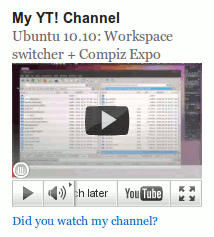
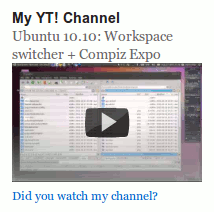
applied patch 1296 from trunk by dimadin, plus localized to Serbian
git-svn-id: https://plugins.svn.wordpress.org/youtube-channel/trunk@370785 b8457f37-d9ea-0310-8a92-e5e31aec5664

diff --git a/youtube-channel.php b/youtube-channel.php
@@ -4,15 +4,23 @@ Plugin Name: YouTube Channel
 Plugin URI: http://blog.urosevic.net/wordpress/youtube-channel/
 Description: <a href="widgets.php">Widget</a> that display latest video thumbnail, iframe (HTML5 video), object (Flash video) or chromeless video from YouTube Channel.
 Author: Aleksandar Urošević
-Version: 0.1.2
+Version: 0.1.3
 Author URI: http://urosevic.net/
 */
+
+define( 'YOUTUBE_CHANNEL_URL', plugin_dir_url(__FILE__) );
+
+/* Load plugin's textdomain */
+function youtube_channel_init() {
+	load_plugin_textdomain( 'youtube-channel', false, dirname( plugin_basename( __FILE__ ) ) . '/languages' );
+}
+add_action( 'init', 'youtube_channel_init' );
 
 /* youtube widget */
 class YouTube_Channel_Widget extends WP_Widget {
 	function YouTube_Channel_Widget() {
 		// widget actual processes
-		parent::WP_Widget(false, $name = 'YouTube Channel');
+		parent::WP_Widget( false, $name = __( 'YouTube Channel' , 'youtube-channel' ) );
 	}
 
 	function form($instance) {
@@ -22,6 +30,8 @@ class YouTube_Channel_Widget extends WP_Widget {
 		$getrnd     = esc_attr($instance['getrnd']);
 		$goto_txt   = esc_attr($instance['goto_txt']);
 		$showgoto   = esc_attr($instance['showgoto']);
+		$popupgoto  = esc_attr($instance['popupgoto']);
+		$target     = esc_attr($instance['target']);
 		$showtitle  = esc_attr($instance['showtitle']);
 		$width      = esc_attr($instance['width']);
 		$height     = esc_attr($instance['height']);
@@ -32,34 +42,36 @@ class YouTube_Channel_Widget extends WP_Widget {
 		$fixyt      = esc_attr($instance['fixyt']);
 		$hideinfo   = esc_attr($instance['hideinfo']);
 		?>
-		<p><label for="<?php echo $this->get_field_id('title'); ?>"><?php _e('Widget Title:'); ?><input class="widefat" id="<?php echo $this->get_field_id('title'); ?>" name="<?php echo $this->get_field_name('title'); ?>" type="text" value="<?php echo $title; ?>" /></label></p>
-		<p><label for="<?php echo $this->get_field_id('channel'); ?>"><?php _e('Channel:'); ?> <input class="widefat" id="<?php echo $this->get_field_id('channel'); ?>" name="<?php echo $this->get_field_name('channel'); ?>" type="text" value="<?php echo $channel; ?>" /></label><br />
-		<input class="checkbox" type="checkbox" <?php checked( (bool) $instance['getrnd'], true ); ?> id="<?php echo $this->get_field_id( 'getrnd' ); ?>" name="<?php echo $this->get_field_name( 'getrnd' ); ?>" /> <label for="<?php echo $this->get_field_id( 'getrnd' ); ?>"><?php _e('Get random video from channel'); ?></label></p>
-		<p><label for="<?php echo $this->get_field_id('width'); ?>"><?php _e('Width'); ?> (<?php _e('default'); ?> 220):<input class="widefat" id="<?php echo $this->get_field_id('width'); ?>" name="<?php echo $this->get_field_name('width'); ?>" type="text" value="<?php echo $width; ?>" /></label></p>
-		<p><label for="<?php echo $this->get_field_id('height'); ?>"><?php _e('Height'); ?> (<?php _e('default'); ?> 165):<input class="widefat" id="<?php echo $this->get_field_id('height'); ?>" name="<?php echo $this->get_field_name('height'); ?>" type="text" value="<?php echo $height; ?>" /></label></p>
-		<p><label for="<?php echo $this->get_field_id('to_show'); ?>"><?php _e('Aspect ratio (relative to width):'); ?>
+		<p><label for="<?php echo $this->get_field_id('title'); ?>"><?php _e('Widget Title:', 'youtube-channel'); ?><input class="widefat" id="<?php echo $this->get_field_id('title'); ?>" name="<?php echo $this->get_field_name('title'); ?>" type="text" value="<?php echo $title; ?>" /></label></p>
+		<p><label for="<?php echo $this->get_field_id('channel'); ?>"><?php _e('Channel:', 'youtube-channel'); ?> <input class="widefat" id="<?php echo $this->get_field_id('channel'); ?>" name="<?php echo $this->get_field_name('channel'); ?>" type="text" value="<?php echo $channel; ?>" /></label><br />
+		<input class="checkbox" type="checkbox" <?php checked( (bool) $instance['getrnd'], true ); ?> id="<?php echo $this->get_field_id( 'getrnd' ); ?>" name="<?php echo $this->get_field_name( 'getrnd' ); ?>" /> <label for="<?php echo $this->get_field_id( 'getrnd' ); ?>"><?php _e('Get random video from channel', 'youtube-channel'); ?></label></p>
+		<p><label for="<?php echo $this->get_field_id('width'); ?>"><?php _e('Width', 'youtube-channel'); ?> (<?php _e('default', 'youtube-channel'); ?> 220):<input class="widefat" id="<?php echo $this->get_field_id('width'); ?>" name="<?php echo $this->get_field_name('width'); ?>" type="text" value="<?php echo $width; ?>" /></label></p>
+		<p><label for="<?php echo $this->get_field_id('height'); ?>"><?php _e('Height', 'youtube-channel'); ?> (<?php _e('default', 'youtube-channel'); ?> 165):<input class="widefat" id="<?php echo $this->get_field_id('height'); ?>" name="<?php echo $this->get_field_name('height'); ?>" type="text" value="<?php echo $height; ?>" /></label></p>
+		<p><label for="<?php echo $this->get_field_id('to_show'); ?>"><?php _e('Aspect ratio (relative to width):', 'youtube-channel'); ?>
 			<select class="widefat" id="<?php echo $this->get_field_id( 'ratio' ); ?>" name="<?php echo $this->get_field_name( 'ratio' ); ?>">
-				<option value="0"<?php if ($instance['ratio'] == "0") { echo 'selected="selected"'; } ?>><?php _e('Custom'); ?></option>
-				<option value="1"<?php if ($instance['ratio'] == "1") { echo 'selected="selected"'; } ?>>4:3</option>
-				<option value="2"<?php if ($instance['ratio'] == "2") { echo 'selected="selected"'; } ?>>16:10</option>
-				<option value="3"<?php if ($instance['ratio'] == "3") { echo 'selected="selected"'; } ?>>16:9</option>
+				<option value="0"<?php selected( $instance['ratio'], 0 ); ?>><?php _e('custom', 'youtube-channel'); ?></option>
+				<option value="1"<?php selected( $instance['ratio'], 1 ); ?>>4:3</option>
+				<option value="2"<?php selected( $instance['ratio'], 2 ); ?>>16:10</option>
+				<option value="3"<?php selected( $instance['ratio'], 3 ); ?>>16:9</option>
 			</select>
 		</p>
-		<p><label for="<?php echo $this->get_field_id('to_show'); ?>"><?php _e('What to show?'); ?>
+		<p><label for="<?php echo $this->get_field_id('to_show'); ?>"><?php _e('What to show?', 'youtube-channel'); ?>
 			<select class="widefat" id="<?php echo $this->get_field_id( 'to_show' ); ?>" name="<?php echo $this->get_field_name( 'to_show' ); ?>">
-				<option value="thumbnail"<?php if ($instance['to_show']  == "thumbnail") { echo 'selected="selected"'; } ?>><?php _e('Thumbnail'); ?></option>
-				<option value="object"<?php if ($instance['to_show']     == "object") { echo 'selected="selected"'; } ?>><?php _e('object (flash player)'); ?></option>
-				<option value="iframe"<?php if ($instance['to_show']     == "iframe") { echo 'selected="selected"'; } ?>><?php _e('iframe (HTML5 player)'); ?></option>
-				<option value="chromeless"<?php if ($instance['to_show'] == "chromeless") { echo 'selected="selected"'; } ?>><?php _e('chromeless video'); ?></option>
+				<option value="thumbnail"<?php selected( $instance['to_show'], 'thumbnail' ); ?>><?php _e('thumbnail', 'youtube-channel'); ?></option>
+				<option value="object"<?php selected( $instance['to_show'], 'object' ); ?>><?php _e('object (flash player)', 'youtube-channel'); ?></option>
+				<option value="iframe"<?php selected( $instance['to_show'], 'iframe' ); ?>><?php _e('iframe (HTML5 player)', 'youtube-channel'); ?></option>
+				<option value="chromeless"<?php selected( $instance['to_show'], 'chromeless' ); ?>><?php _e('chromeless video', 'youtube-channel'); ?></option>
 			</select>
-			<input class="checkbox" type="checkbox" <?php checked( (bool) $instance['fixyt'], true ); ?> id="<?php echo $this->get_field_id( 'fixyt' ); ?>" name="<?php echo $this->get_field_name( 'fixyt' ); ?>" /> <label for="<?php echo $this->get_field_id( 'fixyt' ); ?>"><?php _e('Fix height taken by controls'); ?></label><br />
-			<input class="checkbox" type="checkbox" <?php checked( (bool) $instance['autoplay'], true ); ?> id="<?php echo $this->get_field_id( 'autoplay' ); ?>" name="<?php echo $this->get_field_name( 'autoplay' ); ?>" /> <label for="<?php echo $this->get_field_id( 'autoplay' ); ?>"><?php _e('Autoplay video'); ?></label><br />
-			<input class="checkbox" type="checkbox" <?php checked( (bool) $instance['controls'], true ); ?> id="<?php echo $this->get_field_id( 'controls' ); ?>" name="<?php echo $this->get_field_name( 'controls' ); ?>" /> <label for="<?php echo $this->get_field_id( 'controls' ); ?>"><?php _e('Hide player controls'); ?></label><br />
-			<input class="checkbox" type="checkbox" <?php checked( (bool) $instance['hideinfo'], true ); ?> id="<?php echo $this->get_field_id( 'hideinfo' ); ?>" name="<?php echo $this->get_field_name( 'hideinfo' ); ?>" /> <label for="<?php echo $this->get_field_id( 'hideinfo' ); ?>"><?php _e('Hide video info'); ?></label><br />
-			<input class="checkbox" type="checkbox" <?php checked( (bool) $instance['showtitle'], true ); ?> id="<?php echo $this->get_field_id( 'showtitle' ); ?>" name="<?php echo $this->get_field_name( 'showtitle' ); ?>" /> <label for="<?php echo $this->get_field_id( 'showtitle' ); ?>"><?php _e('Show video title'); ?></label>
+			<input class="checkbox" type="checkbox" <?php checked( (bool) $instance['fixyt'], true ); ?> id="<?php echo $this->get_field_id( 'fixyt' ); ?>" name="<?php echo $this->get_field_name( 'fixyt' ); ?>" /> <label for="<?php echo $this->get_field_id( 'fixyt' ); ?>"><?php _e('Fix height taken by controls', 'youtube-channel'); ?></label><br />
+			<input class="checkbox" type="checkbox" <?php checked( (bool) $instance['autoplay'], true ); ?> id="<?php echo $this->get_field_id( 'autoplay' ); ?>" name="<?php echo $this->get_field_name( 'autoplay' ); ?>" /> <label for="<?php echo $this->get_field_id( 'autoplay' ); ?>"><?php _e('Autoplay video', 'youtube-channel'); ?></label><br />
+			<input class="checkbox" type="checkbox" <?php checked( (bool) $instance['controls'], true ); ?> id="<?php echo $this->get_field_id( 'controls' ); ?>" name="<?php echo $this->get_field_name( 'controls' ); ?>" /> <label for="<?php echo $this->get_field_id( 'controls' ); ?>"><?php _e('Hide player controls', 'youtube-channel'); ?></label><br />
+			<input class="checkbox" type="checkbox" <?php checked( (bool) $instance['hideinfo'], true ); ?> id="<?php echo $this->get_field_id( 'hideinfo' ); ?>" name="<?php echo $this->get_field_name( 'hideinfo' ); ?>" /> <label for="<?php echo $this->get_field_id( 'hideinfo' ); ?>"><?php _e('Hide video info', 'youtube-channel'); ?></label><br />
+			<input class="checkbox" type="checkbox" <?php checked( (bool) $instance['showtitle'], true ); ?> id="<?php echo $this->get_field_id( 'showtitle' ); ?>" name="<?php echo $this->get_field_name( 'showtitle' ); ?>" /> <label for="<?php echo $this->get_field_id( 'showtitle' ); ?>"><?php _e('Show video title', 'youtube-channel'); ?></label>
 		</p>
-		<p><label for="<?php echo $this->get_field_id('goto_txt'); ?>"><?php _e('Visit YouTube Channel text:'); ?> <input class="widefat" id="<?php echo $this->get_field_id('goto_txt'); ?>" name="<?php echo $this->get_field_name('goto_txt'); ?>" type="text" value="<?php echo $goto_txt; ?>" /></label>
-		<input class="checkbox" type="checkbox" <?php checked( (bool) $instance['showgoto'], true ); ?> id="<?php echo $this->get_field_id( 'showgoto' ); ?>" name="<?php echo $this->get_field_name( 'showgoto' ); ?>" /> <label for="<?php echo $this->get_field_id( 'showgoto' ); ?>"><?php _e('Show link to channel'); ?></label></p>
+		<p><label for="<?php echo $this->get_field_id('goto_txt'); ?>"><?php _e('Visit YouTube Channel text:', 'youtube-channel'); ?> <input class="widefat" id="<?php echo $this->get_field_id('goto_txt'); ?>" name="<?php echo $this->get_field_name('goto_txt'); ?>" type="text" value="<?php echo $goto_txt; ?>" /></label>
+		<input class="checkbox" type="checkbox" <?php checked( (bool) $instance['showgoto'], true ); ?> id="<?php echo $this->get_field_id( 'showgoto' ); ?>" name="<?php echo $this->get_field_name( 'showgoto' ); ?>" /> <label for="<?php echo $this->get_field_id( 'showgoto' ); ?>"><?php _e('Show link to channel', 'youtube-channel'); ?></label><br />
+		<input class="checkbox" type="checkbox" <?php checked( (bool) $instance['popupgoto'], true ); ?> id="<?php echo $this->get_field_id( 'popupgoto' ); ?>" name="<?php echo $this->get_field_name( 'popupgoto' ); ?>" /> <label for="<?php echo $this->get_field_id( 'popupgoto' ); ?>"><?php _e('Open channel in new window/tab', 'youtube-channel'); ?></label><br />
+		<input class="checkbox" type="checkbox" <?php checked( (bool) $instance['target'], true ); ?> id="<?php echo $this->get_field_id( 'target' ); ?>" name="<?php echo $this->get_field_name( 'target' ); ?>" /> <label for="<?php echo $this->get_field_id( 'target' ); ?>"><?php _e('Use target="_blank" (invalid XHTML)', 'youtube-channel'); ?></label></p>
 		<?php
 	}
 
@@ -71,6 +83,8 @@ class YouTube_Channel_Widget extends WP_Widget {
 		$instance['getrnd']    = $new_instance['getrnd'];
 		$instance['goto_txt']  = strip_tags($new_instance['goto_txt']);
 		$instance['showgoto']  = $new_instance['showgoto'];
+		$instance['popupgoto'] = $new_instance['popupgoto'];
+		$instance['target']    = $new_instance['target'];
 		$instance['showtitle'] = $new_instance['showtitle'];
 		$instance['width']     = strip_tags($new_instance['width']);
 		$instance['height']    = strip_tags($new_instance['height']);
@@ -140,9 +154,9 @@ class YouTube_Channel_Widget extends WP_Widget {
 			$items = array_slice($rss->items, 0, 1);
 		}
 	}
-	
+
 	if (empty($items)) {
-		echo "No items";
+		echo __( 'No items' , 'youtube-channel' );
 	} else {
 		if ( $getrnd ) {
 			$item = $items[mt_rand(0, (count($items)-1))];
@@ -166,17 +180,18 @@ class YouTube_Channel_Widget extends WP_Widget {
 		
 		// print out video
 		if ( $to_show == "thumbnail" ) {
+		$title = sprintf( __( 'Watch video %1$s published on %2$s' , 'youtube-channel' ), $yt_title, $yt_date );
 echo <<<EOF
-		<a href="$yt_video" title="Watch video $yt_title published on $yt_date"><img src="$yt_thumb" alt="$yt_title" style="width: ${width}px; height: ${height}px; border: 0;" /></a>
+		<a href="$yt_video" title="$title"><img src="$yt_thumb" alt="$yt_title" style="width: ${width}px; height: ${height}px; border: 0;" /></a>
 EOF;
 		} else if ( $to_show == "chromeless" ) {
 ?>
-	<object type="application/x-shockwave-flash" data="<?php echo get_bloginfo('wpurl'); ?>/wp-content/plugins/youtube-channel/chromeless.swf" width="<?php echo $width; ?>" height="<?php echo $height; ?>">
+	<object type="application/x-shockwave-flash" data="<?php echo YOUTUBE_CHANNEL_URL . 'chromeless.swf'; ?>" width="<?php echo $width; ?>" height="<?php echo $height; ?>">
 		<param name="flashVars" value="video_source=<?php echo $yt_id; ?>&video_width=<?php echo $width; ?>&video_height=<?php echo $height; ?><?php if ( $autoplay ) { echo "&autoplay=Yes"; } if ( !$controls ) { echo "&youtube_controls=Yes"; } ?>" />
 		<param name="quality" value="high" />
 		<param name="wmode" value="opaque" />
 		<param name="swfversion" value="6.0.65.0" />
-		<param name="movie" value="<?php echo get_bloginfo('wpurl'); ?>/wp-content/plugins/youtube-channel/chromeless.swf" />
+		<param name="movie" value="<?php echo YOUTUBE_CHANNEL_URL . 'chromeless.swf'; ?>" />
 	</object>	
 <?php
 		} else if ( $to_show == "iframe" ) {
@@ -200,10 +215,25 @@ EOF;
 		// do we need to show goto link?
 		if ( $instance['showgoto'] ) {
 			$goto_txt = $instance['goto_txt'];
-			if ( $goto_txt == "" ) { $goto_txt = __("Visit channel")." $channel"; }
+			if ( $goto_txt == "" ) {
+				$goto_txt = sprintf( __( 'Visit channel %1$s' , 'youtube-channel' ), $channel );
+			}
+			if ( $instance['popupgoto'] ) {
+				$newtab = __("in new window/tab", "youtube-channel");
+				if ( $instance['target'] ) {
 echo <<<EOF
-	<p><a href="javascript: window.open('http://www.youtube.com/user/$channel/'); void 0;" title="$goto_txt">$goto_txt</a></p>
+	<p><a href="http://www.youtube.com/user/$channel/" target="_blank" title="$goto_txt $newtab">$goto_txt</a></p>
 EOF;
+				} else {
+echo <<<EOF
+	<p><a href="javascript: window.open('http://www.youtube.com/user/$channel/'); void 0;" title="$goto_txt $newtab">$goto_txt</a></p>
+EOF;
+				} // target
+			} else {
+echo <<<EOF
+	<p><a href="http://www.youtube.com/user/$channel/" title="$goto_txt">$goto_txt</a></p>
+EOF;
+			} // popupgoto
 		} // showgoto
 	}
 	?>
@@ -213,5 +243,10 @@ EOF;
 	}
 
 }
-add_action('widgets_init', create_function('', 'return register_widget("YouTube_Channel_Widget");'));
+
+/* Register plugin's widget */
+function youtube_channel_register_widget() {
+	register_widget( 'YouTube_Channel_Widget' );
+}
+add_action( 'widgets_init', 'youtube_channel_register_widget' );
 ?>
